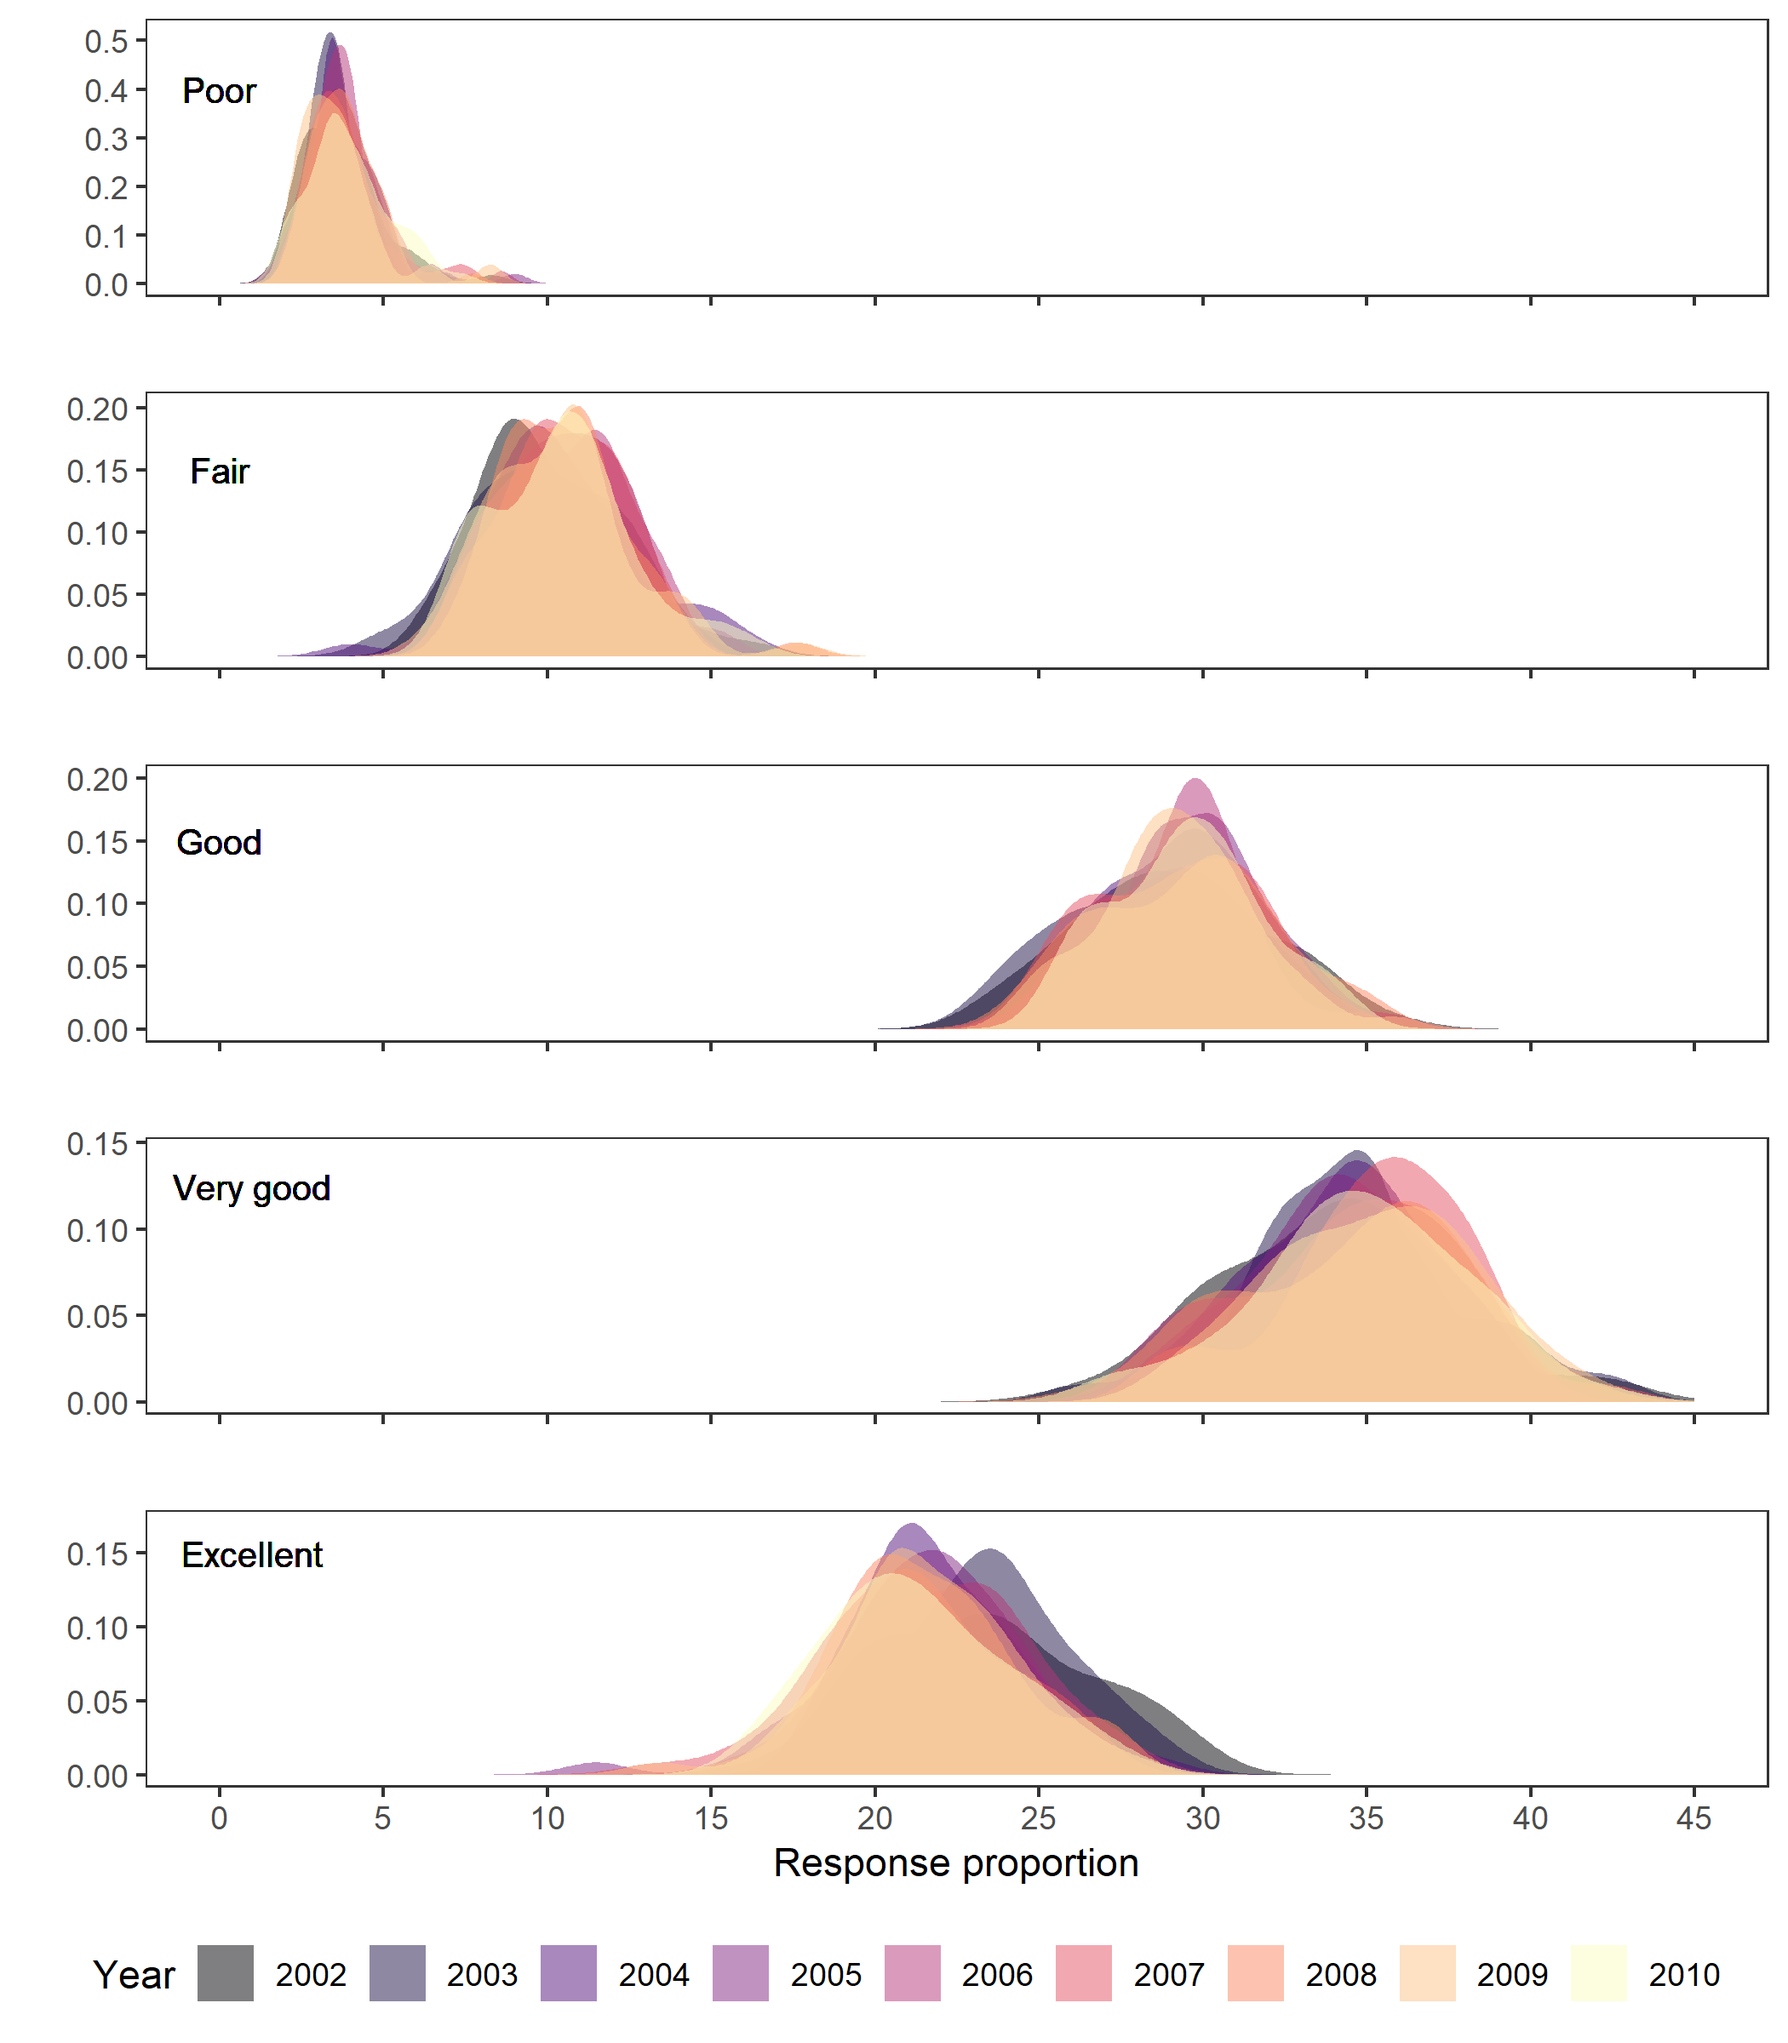
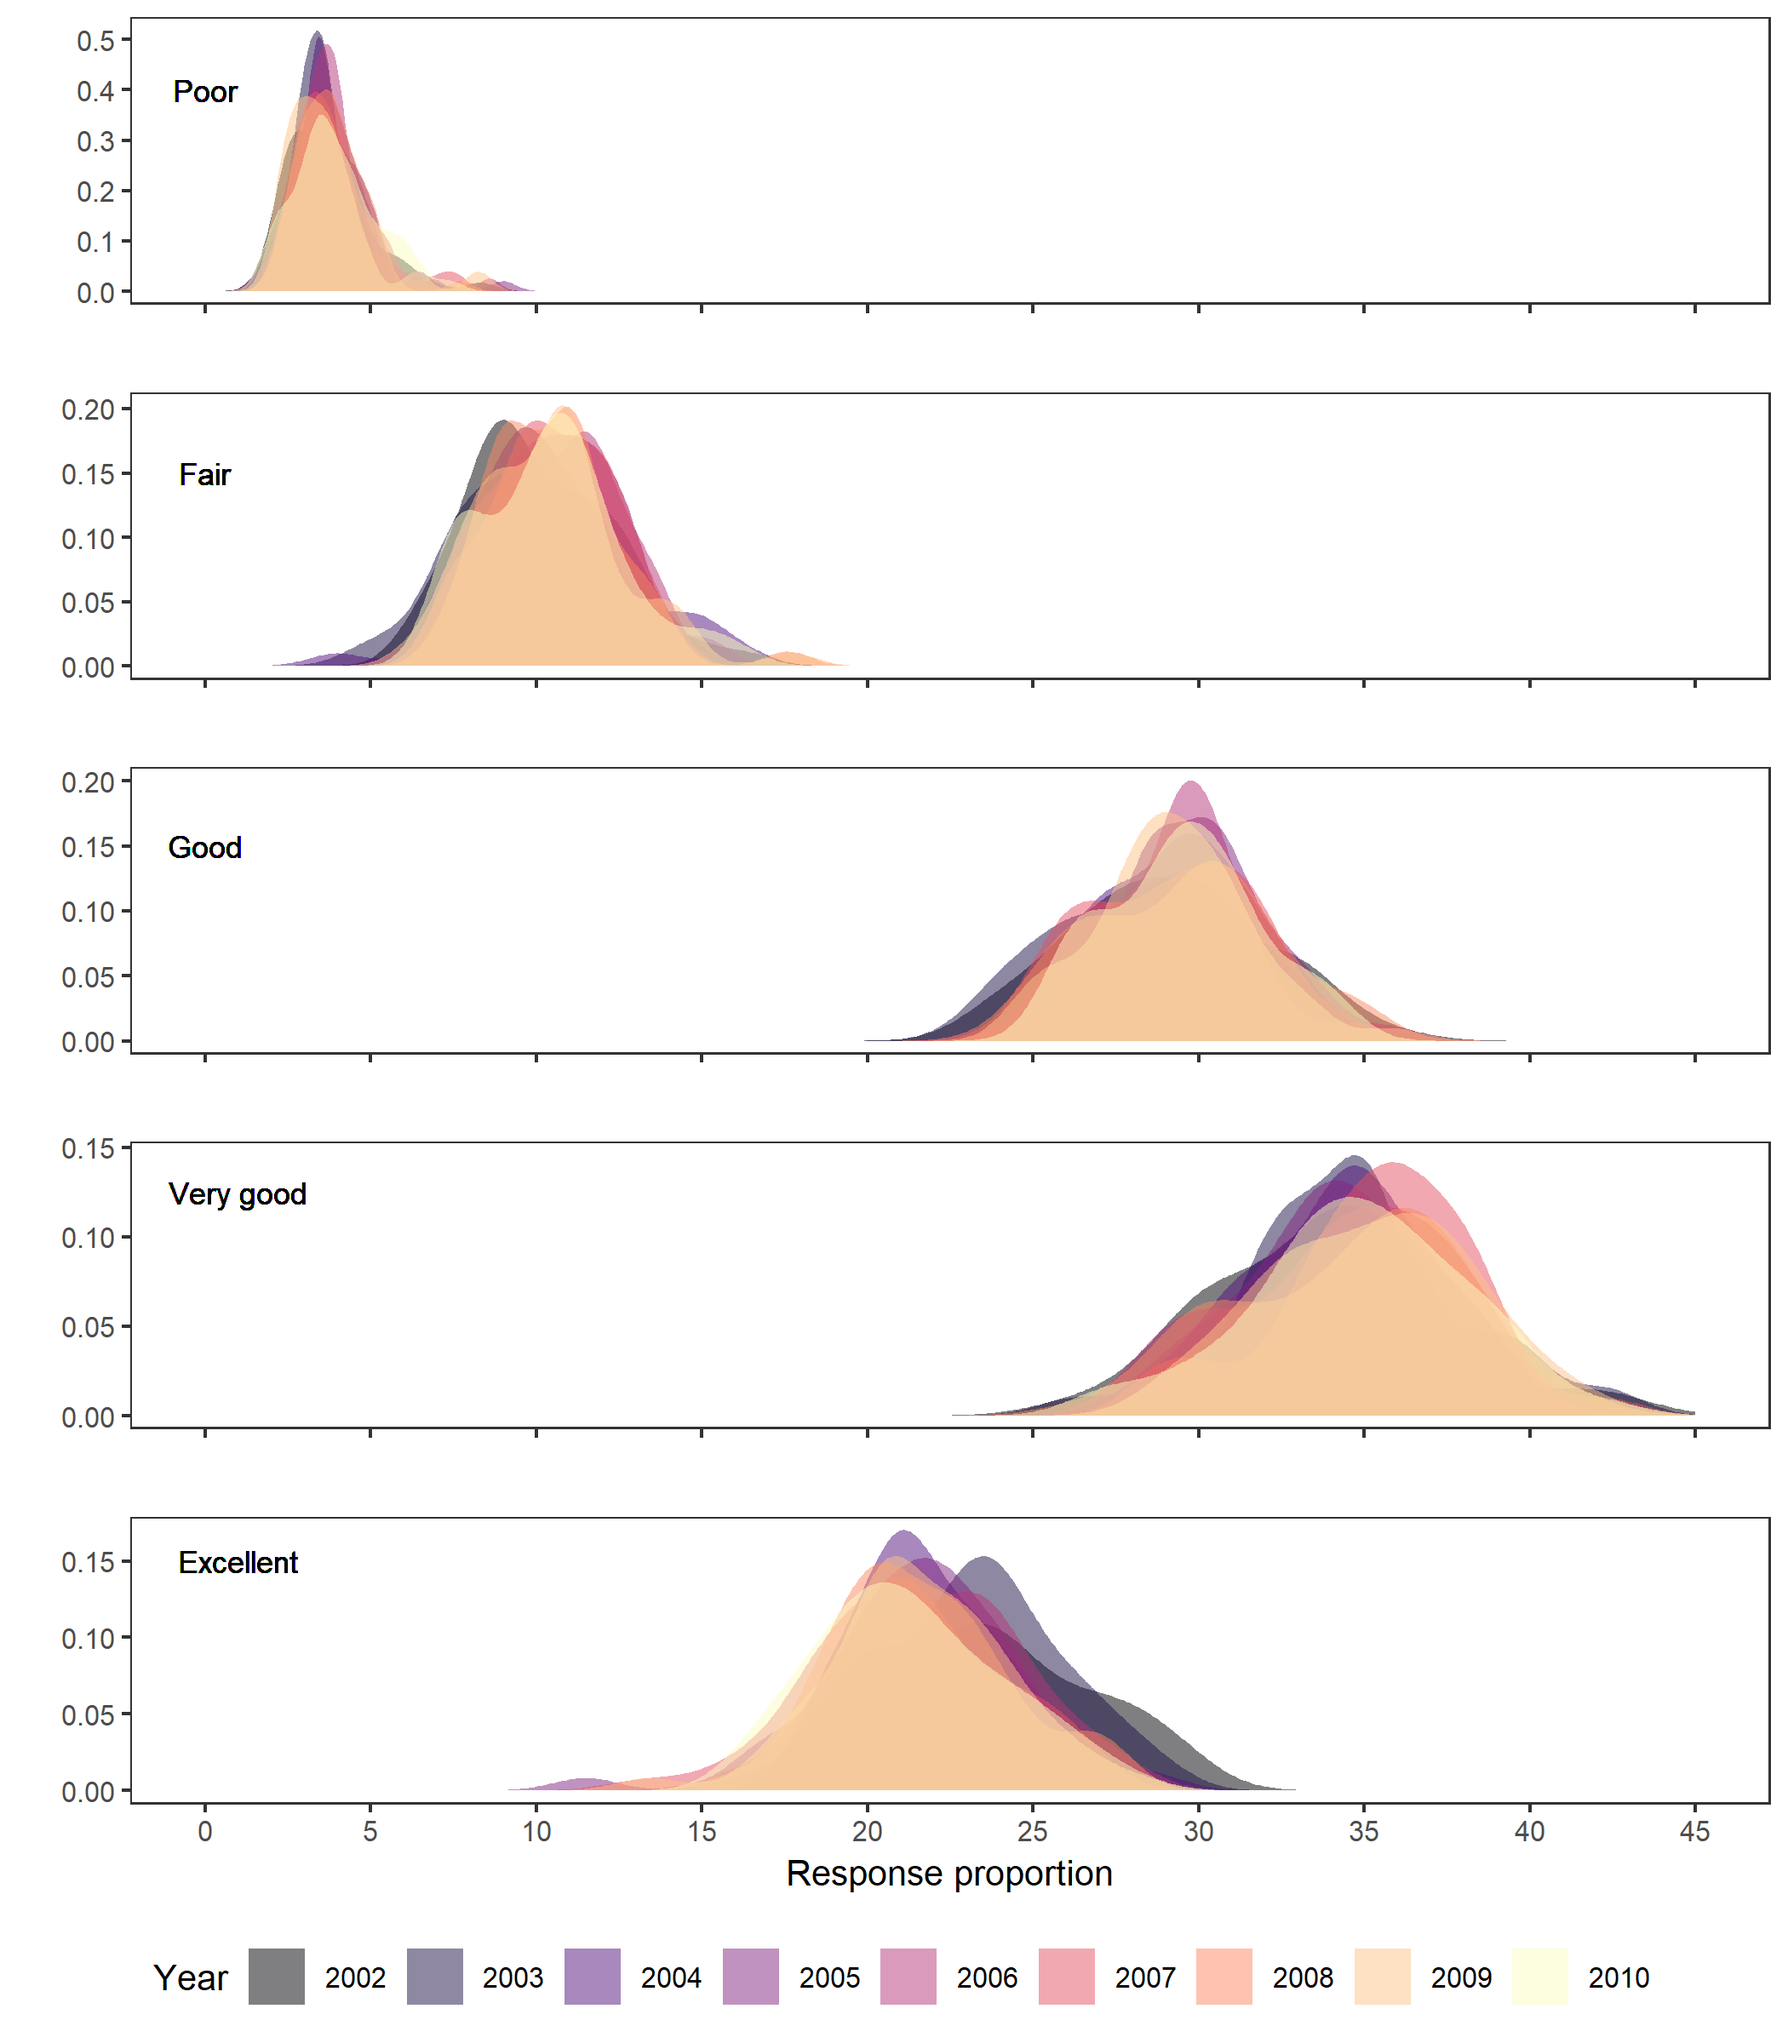
table creation and plot changes
added most popular items table for insta cart data. edited january and july plot for noaa data.

diff --git a/p8105_hw3_ntw2117.md b/p8105_hw3_ntw2117.md
@@ -90,7 +90,7 @@ poor_dist <- avg_response_year_state %>%
   ggplot(aes(x = avg_response, fill = year)) +
     geom_density(alpha = 0.5, color = NA) + 
     geom_text(x = 0, y = 0.40, 
-              label = "Poor", size = 3.5) + 
+              label = "Poor", size = 3) + 
     scale_x_continuous(limits = c(0, 45), 
                        breaks = c(0, 5, 10, 15, 20, 25, 30, 35, 40, 45)) + 
     viridis::scale_fill_viridis(discrete = TRUE, 
@@ -106,7 +106,7 @@ fair_dist <- avg_response_year_state %>%
   ggplot(aes(x = avg_response, fill = year)) +
     geom_density(alpha = 0.5, color = NA) +
     geom_text(x = 0, y = 0.15, 
-              label = "Fair", size = 3.5) + 
+              label = "Fair", size = 3) + 
     scale_x_continuous(limits = c(0, 45), 
                        breaks = c(0, 5, 10, 15, 20, 25, 30, 35, 40, 45)) + 
     viridis::scale_fill_viridis(discrete = TRUE, 
@@ -122,7 +122,7 @@ good_dist <- avg_response_year_state %>%
   ggplot(aes(x = avg_response, fill = year)) +
     geom_density(alpha = 0.5, color = NA) +
     geom_text(x = 0, y = 0.15, 
-              label = "Good", size = 3.5) + 
+              label = "Good", size = 3) + 
     scale_x_continuous(limits = c(0, 45), 
                        breaks = c(0, 5, 10, 15, 20, 25, 30, 35, 40, 45)) + 
     viridis::scale_fill_viridis(discrete = TRUE, 
@@ -138,7 +138,7 @@ v_good_dist <- avg_response_year_state %>%
   ggplot(aes(x = avg_response, fill = year)) +
     geom_density(alpha = 0.5, color = NA) +
     geom_text(x = 1, y = 0.125, 
-              label = "Very good", size = 3.5) + 
+              label = "Very good", size = 3) + 
     scale_x_continuous(limits = c(0, 45), 
                        breaks = c(0, 5, 10, 15, 20, 25, 30, 35, 40, 45)) + 
     viridis::scale_fill_viridis(discrete = TRUE, 
@@ -154,7 +154,7 @@ excel_dist <- avg_response_year_state %>%
   ggplot(aes(x = avg_response, fill = year)) +
     geom_density(alpha = 0.5, color = NA) +
     geom_text(x = 1, y = 0.15, 
-              label = "Excellent", size = 3.5) + 
+              label = "Excellent", size = 3) + 
     scale_x_continuous(limits = c(0, 45), 
                        breaks = c(0, 5, 10, 15, 20, 25, 30, 35, 40, 45)) + 
     labs(y = "", x = "Response proportion") +
@@ -212,6 +212,21 @@ numb_orders %>%
 ```
 
 <img src="p8105_hw3_ntw2117_files/figure-markdown_github/items ordered in each aisle-1.png" style="display: block; margin: auto;" />
+
+``` r
+insta_data %>% 
+  filter(aisle %in% c("baking ingredients", "dog food care", "packaged vegetables fruits")) %>% 
+  group_by(aisle, product_name) %>% 
+  summarize(n = n()) %>% 
+  filter(n == max(n)) %>% 
+  knitr::kable()
+```
+
+| aisle                      | product\_name                                 |     n|
+|:---------------------------|:----------------------------------------------|-----:|
+| baking ingredients         | Light Brown Sugar                             |   499|
+| dog food care              | Snack Sticks Chicken & Rice Recipe Dog Treats |    30|
+| packaged vegetables fruits | Organic Baby Spinach                          |  9784|
 
 ``` r
 insta_data %>% 
@@ -278,7 +293,7 @@ avg_daily_temp %>%
   facet_grid(~ month, 
              scales = "free") + 
   labs(x = "Year", 
-       y = "Average Daily Temperature (degrees C)") + 
+       y = "Average Daily Temperature (°C)") +
   theme(axis.text.x = element_text(angle = 45,
                                    vjust = 0.4), 
         strip.background = element_rect(fill = "black"), 
@@ -286,4 +301,4 @@ avg_daily_temp %>%
                                   face = "bold"))
 ```
 
-<img src="p8105_hw3_ntw2117_files/figure-markdown_github/unnamed-chunk-2-1.png" style="display: block; margin: auto;" />
+<img src="p8105_hw3_ntw2117_files/figure-markdown_github/average daily temp plot in january and july-1.png" style="display: block; margin: auto;" />
